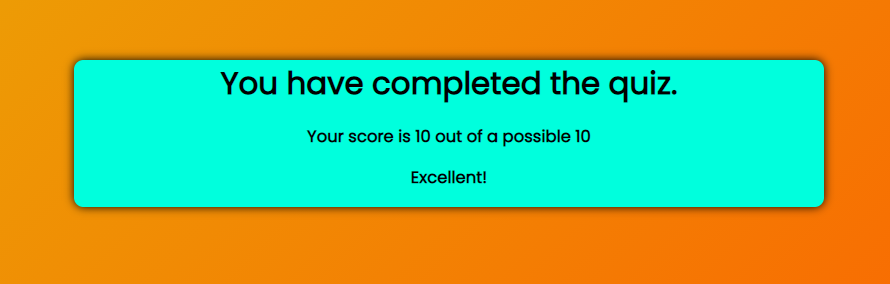
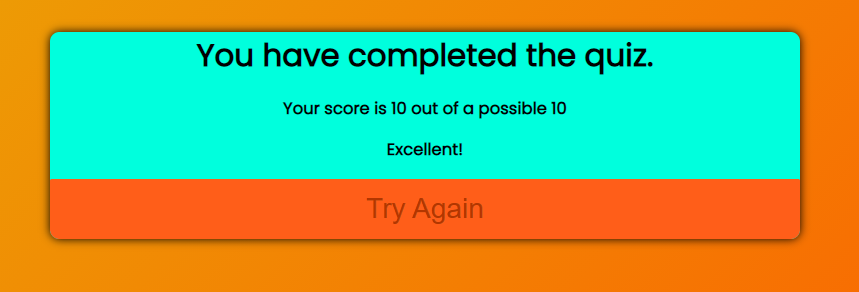
Add files via upload
Added a button to the end of the quiz to start over. Updated the visual for the end -visual3.

diff --git a/Javascript/quizApp/quiz_app.js b/Javascript/quizApp/quiz_app.js
@@ -245,41 +245,49 @@ submit.addEventListener("click", () => {
         if (lang === "esp") {
           quiz.innerHTML = `<h2>Has completado la prueba.</h2>
             <h3>Su puntuaje final es de ${score} de un posible ${quizData.length}</h3>
-            <h3>Exelente!</h3>`;
+            <h3>Exelente!</h3>
+            <button onclick="location.reload()">Intentar Otra Vez</button>`;
         } else {
           quiz.innerHTML = `<h2>You have completed the quiz.</h2>
             <h3>Your score is ${score} out of a possible ${quizData.length}</h3>
-            <h3>Excellent!</h3>`;
+            <h3>Excellent!</h3>
+            <button onclick="location.reload()">Try Again</button>`;
         }
       } else if ((score / quizData.length) * 100 > 65) {
         if (lang === "esp") {
           quiz.innerHTML = `<h2>Has completado la prueba.</h2>
             <h3>Su puntuaje final es de ${score} de un posible ${quizData.length}</h3>
-            <h3>Buen Trabajo!</h3>`;
+            <h3>Buen Trabajo!</h3>
+            <button onclick="location.reload()">Intentar Otra Vez</button>`;
         } else {
           quiz.innerHTML = `<h2>You have completed the quiz.</h2>
             <h3>Your score is ${score} out of a possible ${quizData.length}</h3>
-            <h3>Good Job!</h3>`;
+            <h3>Good Job!</h3>
+            <button onclick="location.reload()">Try Again</button>`;
         }
       } else if ((score / quizData.length) * 100 > 49) {
         if (lang === "esp") {
           quiz.innerHTML = `<h2>Has completado la prueba.</h2>
             <h3>Su puntuaje final es de ${score} de un posible ${quizData.length}</h3>
-            <h3>Puedes hacerlo mejor!</h3>`;
+            <h3>Puedes hacerlo mejor!</h3>
+            <button onclick="location.reload()">Intentar Otra Vez</button>`;
         } else {
           quiz.innerHTML = `<h2>You have completed the quiz.</h2>
             <h3>Your score is ${score} out of a possible ${quizData.length}</h3>
-            <h3>You can do better!</h3>`;
+            <h3>You can do better!</h3>
+            <button onclick="location.reload()">Try Again</button>`;
         }
       } else {
         if (lang === "esp") {
           quiz.innerHTML = `<h2>Has completado la prueba.</h2>
             <h3>Su puntuaje final es de ${score} de un posible ${quizData.length}</h3>
-            <h3>Fallaste!</h3>`;
+            <h3>Fallaste!</h3>
+            <button onclick="location.reload()">Intentar Otra Vez</button>`;
         } else {
           quiz.innerHTML = `<h2>You have completed the quiz.</h2>
             <h3>Your score is ${score} out of a possible ${quizData.length}</h3>
-            <h3>You Failed!</h3>`;
+            <h3>You Failed!</h3>
+            <button onclick="location.reload()">Try Again</button>`;
         }
       }
     }
